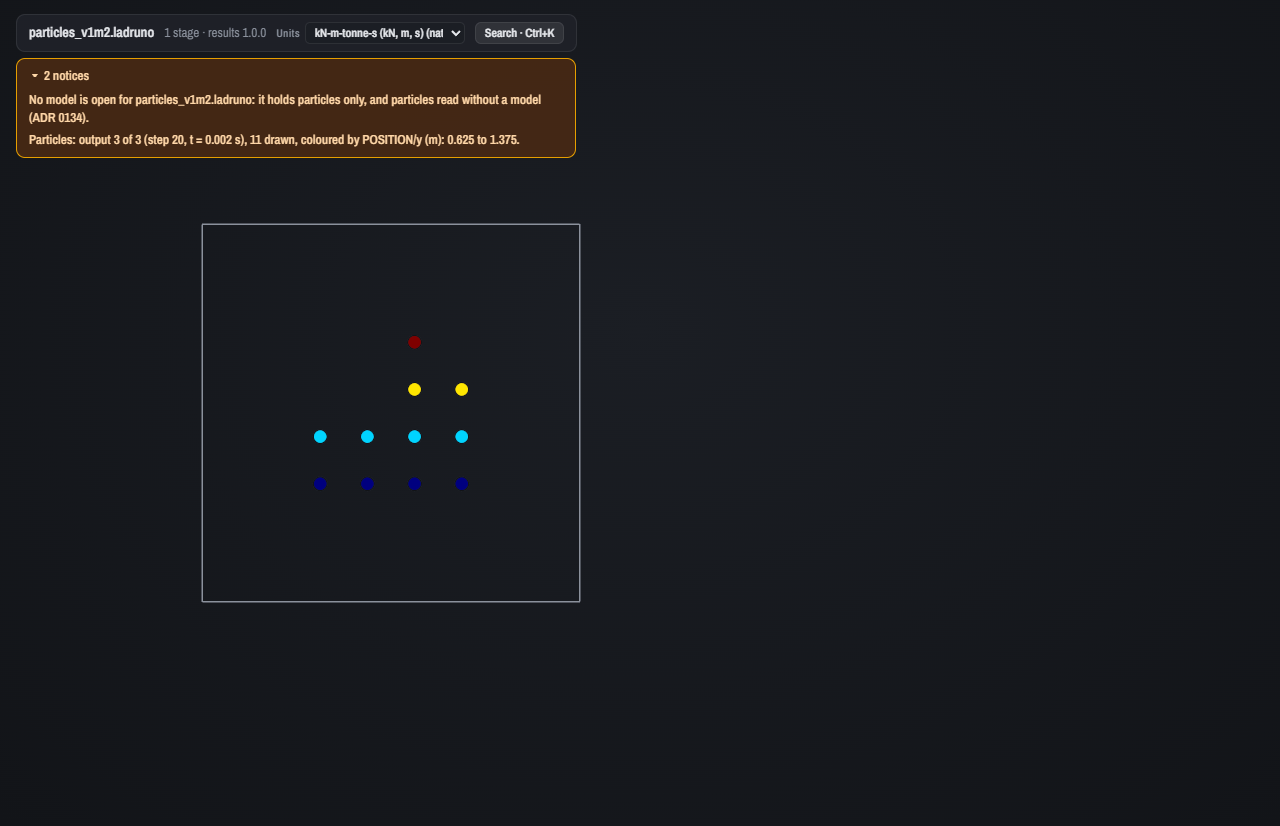
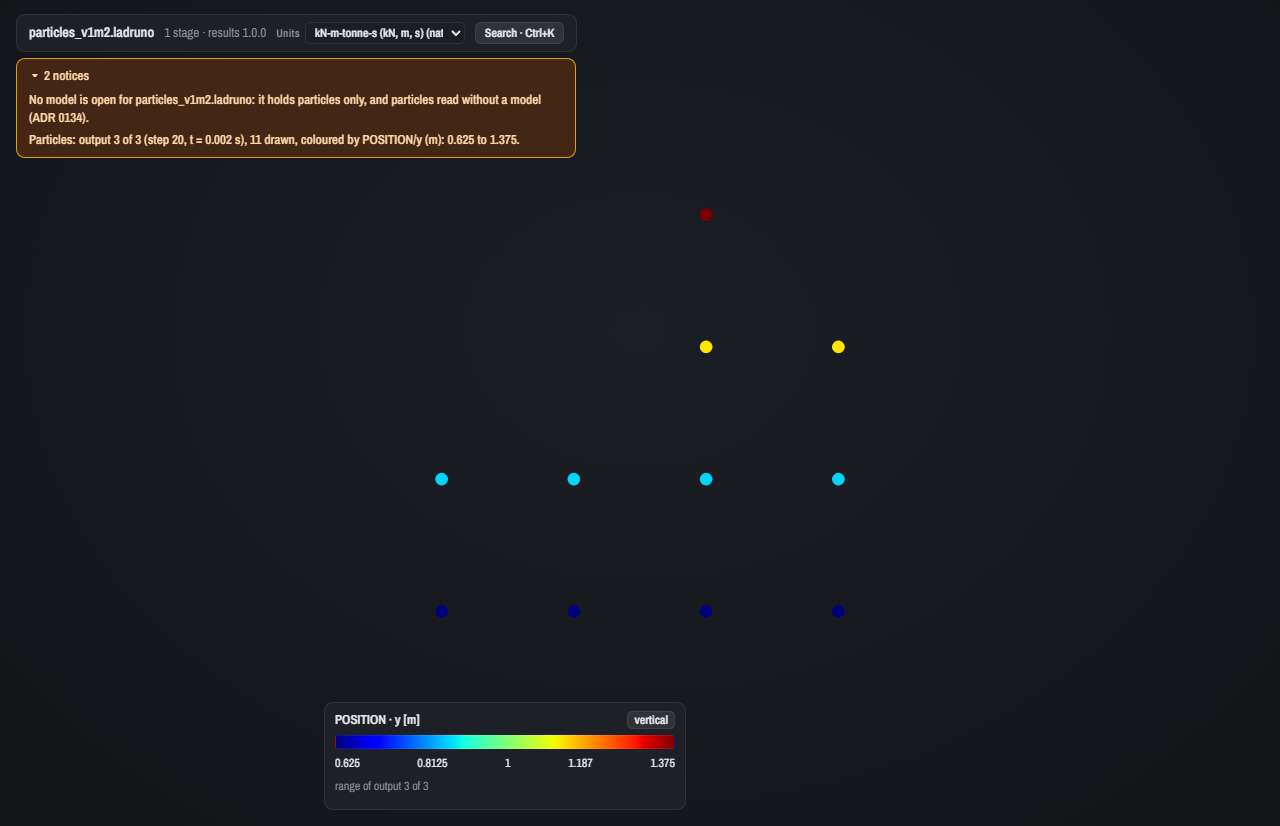
[M2-S4 #2983] Regenerate the four D7 stills; changelog for the scale
Same npm run capture procedure; still 1 now without --grid=1, so all
four share the framing (the cloud's bounds, centred) and the scale.

diff --git a/changelog.d/2983-viewer-particle-points-layer.md b/changelog.d/2983-viewer-particle-points-layer.md
@@ -1,3 +1,3 @@
 ### apeGmshViewer draws MPM particles
 
-apeGmshViewer now draws the particles of a `.ladruno` and the seeded `<stem>.particles.h5` set as a points layer (ADR 0134 D5). One output is read at a time, so the history is never held in memory. The points are coloured by any field component through the contour colormap, and a particle with no value (NaN) is drawn in the no-value colour. The grid can be drawn as a wire box. A particle set opened alone is now drawn, with a "particle set open without a model" notice, where before it was refused. `MEASUREMENTS.md` has rows at 10⁵ and 10⁶ particles.
+apeGmshViewer now draws the particles of a `.ladruno` and the seeded `<stem>.particles.h5` set as a points layer (ADR 0134 D5). One output is read at a time, so the history is never held in memory. The points are coloured by any field component through the contour colormap, and a particle with no value (NaN) is drawn in the no-value colour. While the points are coloured by a field, a colour scale in the viewport shows the field, its unit in the header's Units, the range of the output, and how many particles have no value. With no model, the camera centres on the particle cloud and fits its bounds. The grid can be drawn as a wire box. A particle set opened alone is now drawn, with a "particle set open without a model" notice, where before it was refused. `MEASUREMENTS.md` has rows at 10⁵ and 10⁶ particles.
